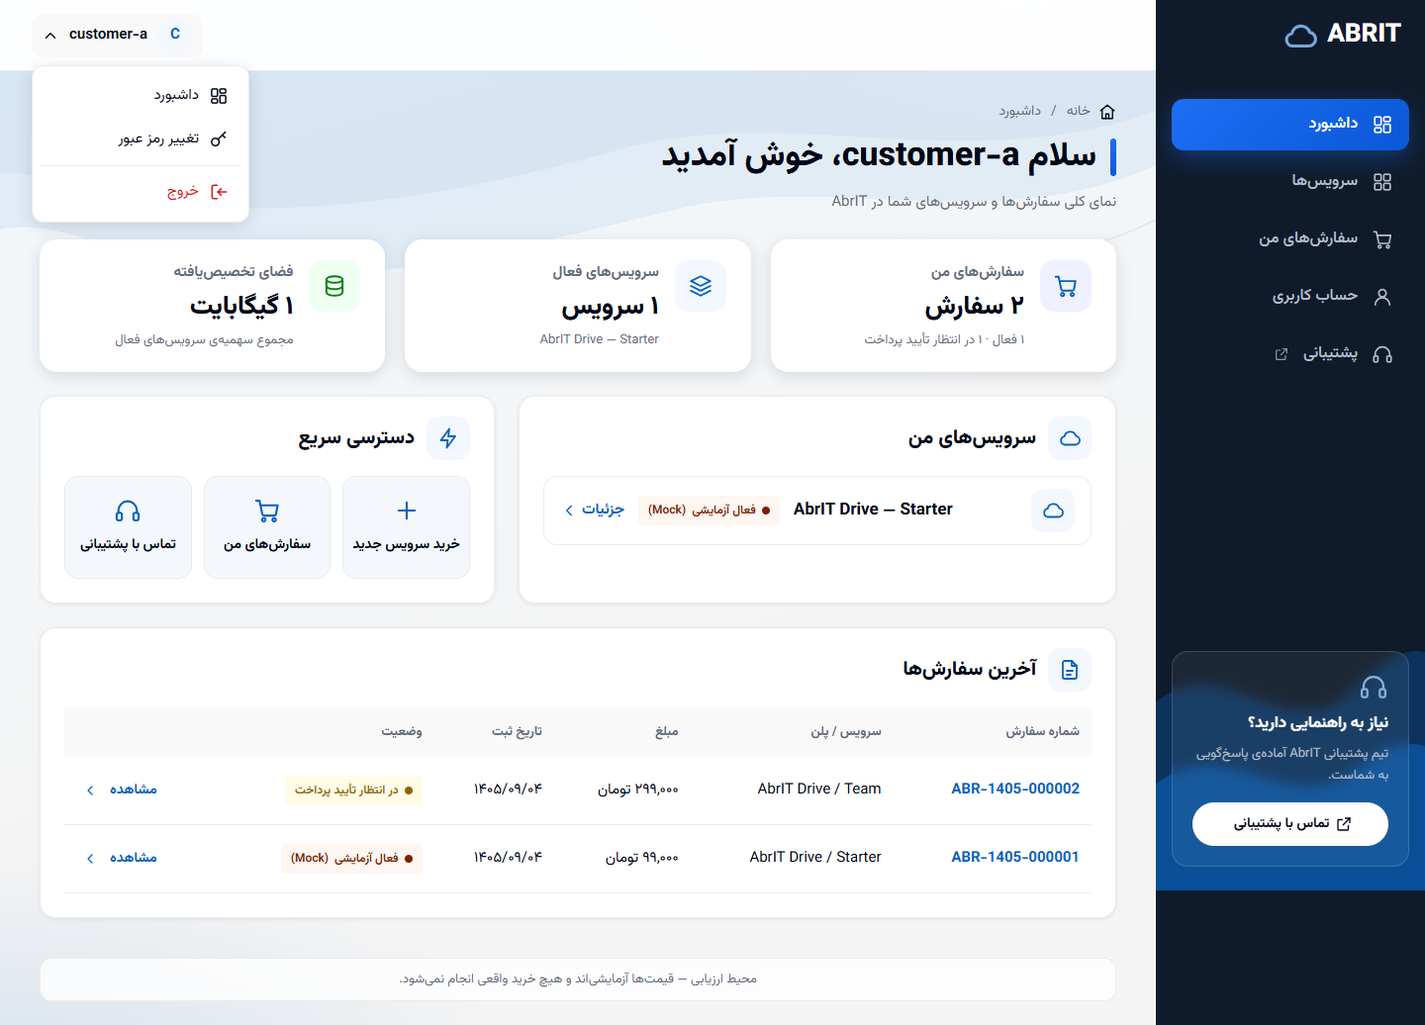
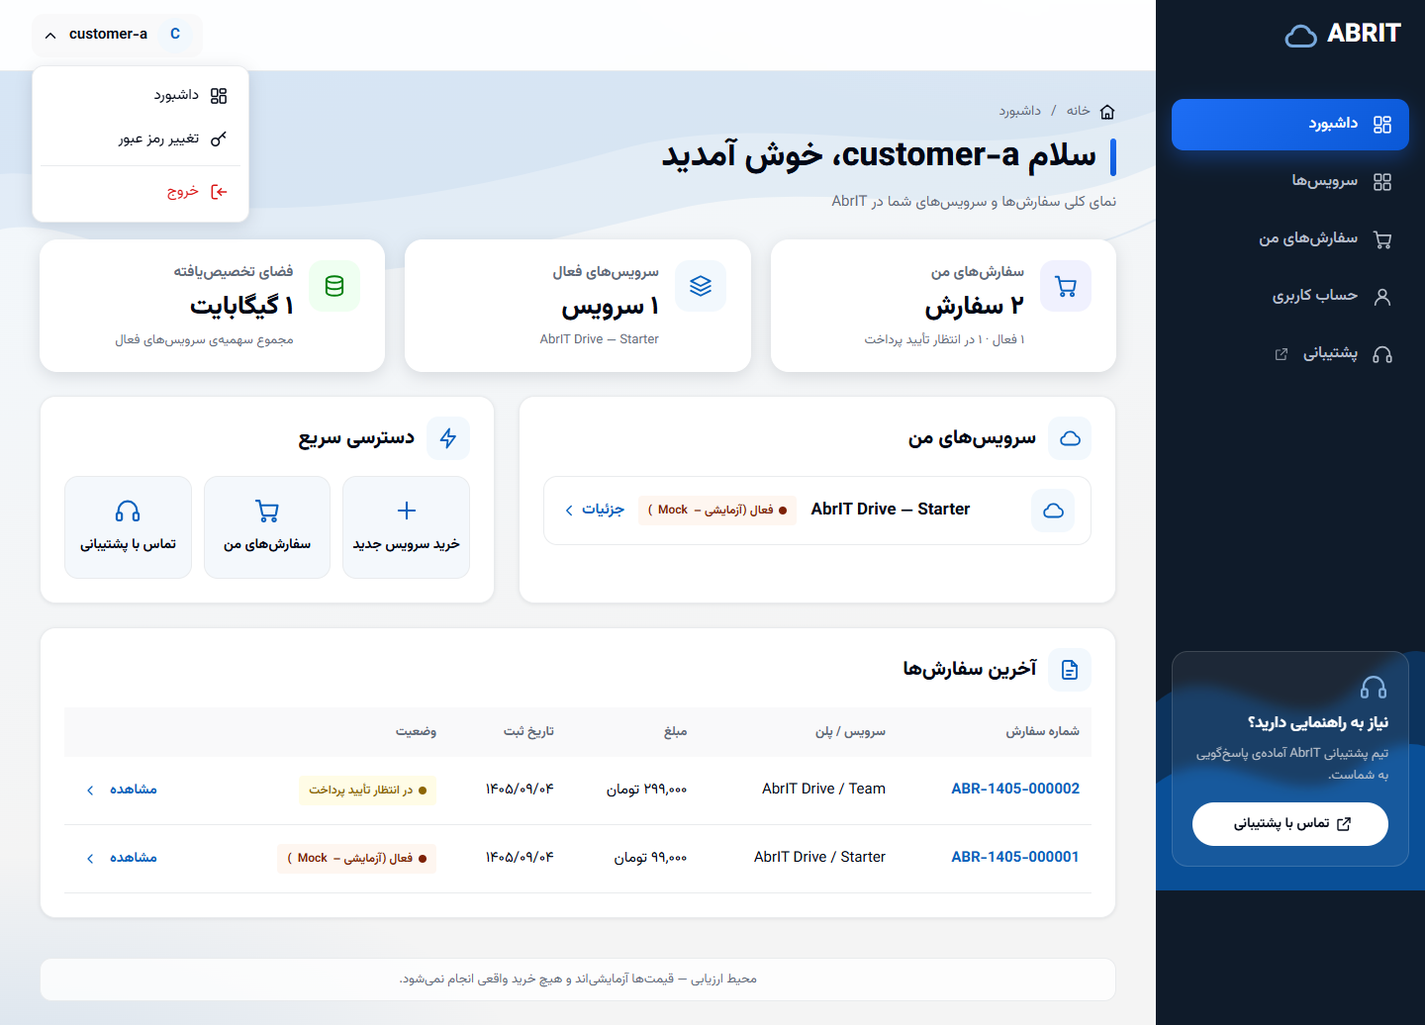
fix(ui): mock label, sidebar height on dashboard, persian decimal

diff --git a/docs/prototype/index.html b/docs/prototype/index.html
@@ -399,7 +399,7 @@ html,body{margin:0;background:#dfe3e8;font-family:var(--abr-font)}
         <tbody>
           <tr data-group="failed"><td data-label="شماره سفارش"><a class="abr-cell-link" href="#"><bdi class="ltr">ABR-1405-000125</bdi></a></td><td data-label="سرویس / پلن"><span>AbrIT Drive — <bdi>Starter</bdi></span></td><td data-label="مبلغ">۹۹٬۰۰۰ تومان</td><td data-label="تاریخ ثبت"><time datetime="2026-11-23">۱۴۰۵/۰۹/۰۲</time></td><td data-label="وضعیت"><span><span class="abr-badge" data-status="Failed">خطا در فعالسازی</span><span class="abr-hint">پشتیبانی در حال بررسی است؛ نیازی به ثبت دوباره نیست.</span></span></td><td class="actions"><a class="abr-btn abr-btn--link" href="#" aria-label="مشاهده جزئیات سفارش ABR-1405-000125">مشاهده جزئیات</a></td></tr>
           <tr data-group="pending"><td data-label="شماره سفارش"><a class="abr-cell-link" href="#"><bdi class="ltr">ABR-1405-000124</bdi></a></td><td data-label="سرویس / پلن"><span>AbrIT Drive — <bdi>Team</bdi></span></td><td data-label="مبلغ">۲۹۹٬۰۰۰ تومان</td><td data-label="تاریخ ثبت"><time datetime="2026-11-23">۱۴۰۵/۰۹/۰۲</time></td><td data-label="وضعیت"><span class="abr-badge" data-status="PendingPayment">در انتظار تأیید پرداخت</span></td><td class="actions"><button class="abr-btn abr-btn--danger" type="button" data-confirm="ABR-1405-000124" aria-haspopup="dialog">لغو سفارش</button></td></tr>
-          <tr data-group="active"><td data-label="شماره سفارش"><a class="abr-cell-link" href="#"><bdi class="ltr">ABR-1405-000123</bdi></a></td><td data-label="سرویس / پلن"><span>AbrIT Drive — <bdi>Starter</bdi></span></td><td data-label="مبلغ">۹۹٬۰۰۰ تومان</td><td data-label="تاریخ ثبت"><time datetime="2026-11-22">۱۴۰۵/۰۹/۰۱</time></td><td data-label="وضعیت"><span class="abr-badge" data-status="ActiveMock">فعال آزمایشی <bdi>(Mock)</bdi></span></td><td class="actions"><a class="abr-btn abr-btn--link" href="#" aria-label="مشاهده سرویس سفارش ABR-1405-000123">مشاهده سرویس</a></td></tr>
+          <tr data-group="active"><td data-label="شماره سفارش"><a class="abr-cell-link" href="#"><bdi class="ltr">ABR-1405-000123</bdi></a></td><td data-label="سرویس / پلن"><span>AbrIT Drive — <bdi>Starter</bdi></span></td><td data-label="مبلغ">۹۹٬۰۰۰ تومان</td><td data-label="تاریخ ثبت"><time datetime="2026-11-22">۱۴۰۵/۰۹/۰۱</time></td><td data-label="وضعیت"><span class="abr-badge" data-status="ActiveMock">فعال (آزمایشی – <bdi>Mock</bdi>)</span></td><td class="actions"><a class="abr-btn abr-btn--link" href="#" aria-label="مشاهده سرویس سفارش ABR-1405-000123">مشاهده سرویس</a></td></tr>
         </tbody>
       </table>
       <div class="abr-empty" id="empty-d4" hidden><strong>سفارشی با این وضعیت ندارید.</strong><button class="abr-btn abr-btn--link" type="button" data-filter-reset>نمایش همهی سفارشها</button></div>
@@ -422,7 +422,7 @@ html,body{margin:0;background:#dfe3e8;font-family:var(--abr-font)}
   <header class="abr-nav"><div class="abr-nav__right"><a class="abr-nav__brand" href="#">ABRIT <small>پنل مشتریان</small></a><nav class="abr-nav__links" id="nav-d5" aria-label="منوی اصلی"><a href="#">سرویسها</a><a href="#" aria-current="page">داشبورد من</a><a href="#">پشتیبانی</a></nav></div><div class="abr-nav__user"><span class="abr-avatar" aria-hidden="true">ا</span><span>مشتری الف</span><form class="abr-nav__logout" method="post" action="/Users/LogOff"><button type="submit" class="abr-nav__linkbtn">خروج</button></form><button class="abr-nav__burger" type="button" aria-label="منو" aria-expanded="false" aria-controls="nav-d5">☰</button></div></header>
   <main class="abr-main" id="main-d5" tabindex="-1">
     <div class="abr-head"><div class="abr-crumb">خانه <span>/</span> داشبورد من <span>/</span> <bdi class="ltr">ABR-1405-000123</bdi></div>
-      <div class="abr-head__title"><h1 class="abr-h1">سفارش <bdi class="ltr">ABR-1405-000123</bdi></h1><span class="abr-badge" data-status="ActiveMock">فعال آزمایشی <bdi>(Mock)</bdi></span></div><p class="abr-sub">AbrIT Drive — Starter</p></div>
+      <div class="abr-head__title"><h1 class="abr-h1">سفارش <bdi class="ltr">ABR-1405-000123</bdi></h1><span class="abr-badge" data-status="ActiveMock">فعال (آزمایشی – <bdi>Mock</bdi>)</span></div><p class="abr-sub">AbrIT Drive — Starter</p></div>
     <div class="abr-alert abr-alert--mock" role="note"><span class="abr-alert__icon"></span><div><strong>فعالسازی آزمایشی (Mock)</strong><p>این حساب در حالت Mock ساخته شده و به سرور واقعی Nextcloud متصل نیست. اطلاعات زیر فقط برای نمایش جریان کار است.</p></div></div>
     <div class="abr-cols">
       <div style="display:flex;flex-direction:column;gap:24px">
@@ -443,7 +443,7 @@ html,body{margin:0;background:#dfe3e8;font-family:var(--abr-font)}
       </div>
       <section class="abr-container"><div class="abr-container__head"><h2 class="abr-container__title">تاریخچهی وضعیت</h2></div>
         <ol class="abr-timeline">
-          <li><span class="abr-badge" data-status="ActiveMock">فعال آزمایشی <bdi>(Mock)</bdi></span><small>۱۴۰۵/۰۹/۰۱ — ۱۴:۰۶</small>حساب و سهمیه ثبت شد (Mock)</li>
+          <li><span class="abr-badge" data-status="ActiveMock">فعال (آزمایشی – <bdi>Mock</bdi>)</span><small>۱۴۰۵/۰۹/۰۱ — ۱۴:۰۶</small>حساب و سهمیه ثبت شد (Mock)</li>
           <li><span class="abr-badge" data-status="Provisioning">در حال فعالسازی</span><small>۱۴۰۵/۰۹/۰۱ — ۱۴:۰۶</small>شروع ساخت حساب</li>
           <li><span class="abr-badge" data-status="Paid">پرداختشده</span><small>۱۴۰۵/۰۹/۰۱ — ۱۴:۰۵</small>تأیید پرداخت توسط مدیر</li>
           <li><span class="abr-badge" data-status="PendingPayment">در انتظار تأیید پرداخت</span><small>۱۴۰۵/۰۹/۰۱ — ۱۳:۵۰</small>ثبت سفارش</li>
@@ -552,7 +552,7 @@ html,body{margin:0;background:#dfe3e8;font-family:var(--abr-font)}
           <tr><td data-label="شماره سفارش"><bdi class="ltr">ABR-1405-000126</bdi></td><td data-label="مشتری"><bdi class="ltr">customer-b@example.test</bdi></td><td data-label="پلن"><span>Drive — Starter</span></td><td data-label="مبلغ">۹۹٬۰۰۰ تومان</td><td data-label="وضعیت"><span class="abr-badge" data-status="PendingPayment">در انتظار تأیید پرداخت</span></td><td data-label="تلاشها">—</td><td class="actions"><button class="abr-btn abr-btn--primary" type="button">تأیید پرداخت</button><button class="abr-btn abr-btn--link" type="button">لغو</button></td></tr>
           <tr><td data-label="شماره سفارش"><bdi class="ltr">ABR-1405-000125</bdi></td><td data-label="مشتری"><bdi class="ltr">customer-a@example.test</bdi></td><td data-label="پلن"><span>Drive — Starter</span></td><td data-label="مبلغ">۹۹٬۰۰۰ تومان</td><td data-label="وضعیت"><span class="abr-badge" data-status="Failed">خطا در فعالسازی</span></td><td data-label="تلاشها">۱ / ۵</td><td class="actions"><button class="abr-btn abr-btn--normal" type="button">تلاش مجدد</button></td></tr>
           <tr><td data-label="شماره سفارش"><bdi class="ltr">ABR-1405-000124</bdi></td><td data-label="مشتری"><bdi class="ltr">customer-a@example.test</bdi></td><td data-label="پلن"><span>Drive — Team</span></td><td data-label="مبلغ">۲۹۹٬۰۰۰ تومان</td><td data-label="وضعیت"><span class="abr-badge" data-status="PendingPayment">در انتظار تأیید پرداخت</span></td><td data-label="تلاشها">—</td><td class="actions"><button class="abr-btn abr-btn--primary" type="button">تأیید پرداخت</button><button class="abr-btn abr-btn--link" type="button">لغو</button></td></tr>
-          <tr><td data-label="شماره سفارش"><bdi class="ltr">ABR-1405-000123</bdi></td><td data-label="مشتری"><bdi class="ltr">customer-a@example.test</bdi></td><td data-label="پلن"><span>Drive — Starter</span></td><td data-label="مبلغ">۹۹٬۰۰۰ تومان</td><td data-label="وضعیت"><span class="abr-badge" data-status="ActiveMock">فعال آزمایشی <bdi>(Mock)</bdi></span></td><td data-label="تلاشها">۱ / ۵</td><td class="actions"><a class="abr-btn abr-btn--link" href="#">جزئیات</a></td></tr>
+          <tr><td data-label="شماره سفارش"><bdi class="ltr">ABR-1405-000123</bdi></td><td data-label="مشتری"><bdi class="ltr">customer-a@example.test</bdi></td><td data-label="پلن"><span>Drive — Starter</span></td><td data-label="مبلغ">۹۹٬۰۰۰ تومان</td><td data-label="وضعیت"><span class="abr-badge" data-status="ActiveMock">فعال (آزمایشی – <bdi>Mock</bdi>)</span></td><td data-label="تلاشها">۱ / ۵</td><td class="actions"><a class="abr-btn abr-btn--link" href="#">جزئیات</a></td></tr>
         </tbody>
       </table>
     </section>

diff --git a/design-system/preview.html b/design-system/preview.html
@@ -98,7 +98,7 @@ h2{font-size:var(--abr-fs-h2);line-height:var(--abr-lh-h2);margin:48px 0 16px;pa
   <span class="badge" style="color:var(--abr-info);background:var(--abr-info-bg)">پرداختشده</span>
   <span class="badge" style="color:var(--abr-info);background:var(--abr-info-bg)">در حال فعالسازی</span>
   <span class="badge" style="color:var(--abr-success);background:var(--abr-success-bg)">فعال</span>
-  <span class="badge" style="color:var(--abr-mock);background:var(--abr-mock-bg)">فعال آزمایشی <bdi>(Mock)</bdi></span>
+  <span class="badge" style="color:var(--abr-mock);background:var(--abr-mock-bg)">فعال (آزمایشی – <bdi>Mock</bdi>)</span>
   <span class="badge" style="color:var(--abr-error);background:var(--abr-error-bg)">خطا در فعالسازی</span>
   <span class="badge" style="color:var(--abr-neutral);background:var(--abr-neutral-bg)">لغوشده</span>
 </div>

diff --git a/src/AbrIT.Panel.Module/Display/Labels.cs b/src/AbrIT.Panel.Module/Display/Labels.cs
@@ -23,10 +23,13 @@ public static class Labels
         _ => status.ToString(),
     };
 
+    /// <summary>Badge text for Active in Mock mode: «فعال (آزمایشی – Mock)» (DESIGN_PROMPTS); "Mock" is bidi-isolated.</summary>
+    public const string ActiveMockHtml = "فعال (آزمایشی – <bdi>Mock</bdi>)";
+
     /// <summary>In Mock mode Active is never shown as a real active service (spec §7).</summary>
     public static IHtmlContent StatusHtml(OrderStatus status, ProvisionerMode? mode) =>
         status == OrderStatus.Active && mode == ProvisionerMode.Mock
-            ? new HtmlString("فعال آزمایشی <bdi>(Mock)</bdi>")
+            ? new HtmlString(ActiveMockHtml)
             : new HtmlString(WebUtility.HtmlEncode(Status(status)));
 
     /// <summary>Badge key for <c>.abr-badge[data-status]</c>: <c>ActiveMock</c> keeps Mock activations visually apart.</summary>
@@ -62,7 +65,7 @@ public static class Labels
 
     private static string QuotaGb(long megabytes) =>
         megabytes > 1024
-            ? ToFa((megabytes / 1024d).ToString("0.#", CultureInfo.InvariantCulture)).Replace(".", "٫", StringComparison.Ordinal) + " گیگابایت"
+            ? Decimal(megabytes / 1024d) + " گیگابایت"
             : $"{Digits(megabytes)} مگابایت";
 
     /// <summary>Service name for an order line; the plan snapshot only carries the plan (all plans are Drive today).</summary>
@@ -95,6 +98,13 @@ public static class Labels
 
     /// <summary>Persian digits (۰–۹) for UI copy; .NET formatting never substitutes native digits.</summary>
     public static string Digits(long value) => ToFa(value.ToString(CultureInfo.InvariantCulture));
+
+    /// <summary>Persian decimal: Persian digits and «٫» (U+066B ARABIC DECIMAL SEPARATOR), e.g. 1.5 → «۱٫۵».</summary>
+    public static string Decimal(double value, int maxFractionDigits = 1) =>
+        ToFa(value.ToString("0." + new string('#', maxFractionDigits), CultureInfo.InvariantCulture))
+            .Replace(".", DecimalSeparator, StringComparison.Ordinal);
+
+    public const string DecimalSeparator = "٫";
 
     public static string ToFa(string latin) =>
         string.Concat(latin.Select(c => c is >= '0' and <= '9' ? (char)('۰' + (c - '0')) : c));

diff --git a/tests/AbrIT.Panel.Web.Tests/AcceptanceTests.cs b/tests/AbrIT.Panel.Web.Tests/AcceptanceTests.cs
@@ -1,3 +1,4 @@
+using AbrIT.Panel.Module.Display;
 using System.Net;
 using System.Text;
 using System.Text.RegularExpressions;
@@ -144,8 +145,7 @@ public sealed partial class AcceptanceTests(SharedPanelHost shared)
         Assert.Equal(OneGiB, account.QuotaBytes);
 
         var page = await customerA.GetAsync($"/dashboard/orders/{orderId}");
-        Assert.Contains("فعال آزمایشی", page.Text);
-        Assert.Contains("(Mock)", page.Text);
+        Assert.Contains(Labels.ActiveMockHtml, page.Text);
         Assert.Contains(request.ExternalUserId, page.Text);
     }
 
@@ -218,7 +218,7 @@ public sealed partial class AcceptanceTests(SharedPanelHost shared)
             var request = await Host.GetProvisioningRequestAsync(orderId);
             Assert.Equal(ProvisioningStatus.Succeeded, request!.Status);
             Assert.Equal(2, request.Attempts);
-            Assert.Contains("فعال آزمایشی", (await customerA.GetAsync($"/dashboard/orders/{orderId}")).Text);
+            Assert.Contains(Labels.ActiveMockHtml, (await customerA.GetAsync($"/dashboard/orders/{orderId}")).Text);
         }
         finally
         {

diff --git a/tests/AbrIT.Panel.Web.Tests/LabelsTests.cs b/tests/AbrIT.Panel.Web.Tests/LabelsTests.cs
@@ -1,0 +1,22 @@
+using AbrIT.Panel.Module.Display;
+
+namespace AbrIT.Panel.Web.Tests;
+
+public sealed class LabelsTests
+{
+    [Fact]
+    public void Decimal_UsesPersianDigitsAndArabicDecimalSeparator()
+    {
+        Assert.Equal("۱٫۵", Labels.Decimal(1.5));
+        Assert.Equal("۱٫۵ گیگابایت", Labels.Quota(1536));
+        Assert.Equal("۱ گیگابایت", Labels.Quota(1024));
+        Assert.Equal("۵۰۰ مگابایت", Labels.Quota(500));
+    }
+
+    [Fact]
+    public void Price_UsesPersianDigitsAndCommaGrouping() => Assert.Equal("۲۹۹,۰۰۰ تومان", Labels.Price(299_000));
+
+    [Fact]
+    public void ActiveMock_IsTheAgreedLabel() =>
+        Assert.Equal("فعال (آزمایشی – <bdi>Mock</bdi>)", Labels.StatusHtml(Domain.Orders.OrderStatus.Active, Domain.Provisioning.ProvisionerMode.Mock).ToString());
+}

diff --git a/tests/AbrIT.Panel.Web.Tests/RestartTests.cs b/tests/AbrIT.Panel.Web.Tests/RestartTests.cs
@@ -1,3 +1,4 @@
+using AbrIT.Panel.Module.Display;
 using System.Net;
 using AbrIT.Panel.Domain.Orders;
 using AbrIT.Panel.Domain.Provisioning;
@@ -47,7 +48,7 @@ public sealed class RestartTests
             using var customerAAgain = await second.LoginAsync(PanelHost.CustomerA, PanelHost.CustomerAPassword);
             var page = await customerAAgain.GetAsync($"/dashboard/orders/{activeOrderId}", followRedirects: false);
             Assert.Equal(HttpStatusCode.OK, page.Status);
-            Assert.Contains("فعال آزمایشی", page.Text);
+            Assert.Contains(Labels.ActiveMockHtml, page.Text);
             var dashboard = await customerAAgain.GetAsync("/dashboard");
             Assert.Contains(activeOrderNumber, dashboard.Text);
             Assert.Contains((await second.GetOrderAsync(pendingOrderId))!.OrderNumber, dashboard.Text);

diff --git a/docs/DECISIONS.md b/docs/DECISIONS.md
@@ -51,5 +51,5 @@ Format: `D-xx | decision | why | status`. Add new entries; never silently change
 | D-18 | `INextcloudProvisioner` gained `AddUserToGroupAsync`, `RemoveUserFromGroupAsync`, `DisableUserAsync`; provisioning now adds the Team owner to the group explicitly (create-with-groups is skipped by Nextcloud when the account already existed). `TeamWorkspace` is a YesSql document (one per order, `TeamWorkspaceIndex(OrderId)`, migration v3) changed only under the per-order lock, with the same commit-on-save / fresh-read rules as D-12. | Same three idempotency layers as provisioning: lock, one document per order, deterministic ids + create-if-missing. |
 | D-19 | Integration tests (`tests/AbrIT.Panel.Web.Tests`) run the real `Program` via `WebApplicationFactory` in **Production** (precompiled views, as in Docker) on a temp `ORCHARD_APP_DATA`. Orchard reads that path from a process-wide environment variable, so the integration collection runs **serially** and AC-01..AC-08 share one set-up host (each test creates its own orders/users); AC-09 starts two hosts on its own App_Data. E-mail is captured by a test-only Orchard `IStartup` (order `int.MaxValue`) replacing `IEmailService`. Tenant services are only read to assert, every action goes through HTTP forms with antiforgery tokens. Without an SMTP host the app falls back to pickup-directory delivery into `App_Data/mail` (recipe sets `EmailSettings.DefaultProviderName = DefaultSMTP`). `PreserveCompilationContext` is on so Orchard's Development-mode Razor runtime compilation uses the project's C# version (it fell back to C# 8 and the order/admin views returned 500 under `dotnet run`). | Spec asks for runnable proof of every AC; one shared host keeps the suite at ~20 s. |
 | D-20 | Front-end theme = `AbrIT.Theme` (no Bootstrap, no CDN). `design-system/tokens.css` + the Vazirmatn font stay the single source: they are **linked** into the theme as embedded module assets (`/AbrIT.Theme/css/tokens.css`, `/AbrIT.Theme/css/fonts/*`), not copied. `theme.css` = prototype THEME block (`@container viewport` → `@media`) + shell/auth/component layer. Existing sites switch via module data migration `ThemeMigrations` (runs `Migrations/abrit-theme.recipe.json`); new sites via the setup recipe. Reusable components are Orchard **shapes in the module** (`AbrPageHeader`, `AbrAlert`, `AbrStepper`, `AbrTimeline`, `AbrStatusBadge`) + C# `Icons.Svg(...)`, so the admin theme can use them later; the theme references the module for those types. Sign-in pages override only the Users shape templates and the controller views that carry Bootstrap markup; labels are always visible (refs 01/02 show placeholder-only fields — not accessible). Reset page asks for «ایمیل یا نام کاربری» (ref 04 shows a pre-filled read-only email, but Orchard's reset link carries no email). | Spec §7 (use Orchard capabilities, don't modify its source); AA contrast/labels; one token source. |
-| D-21 | Persian output and messages: host sets `WebEncoderOptions` to `UnicodeRanges.All` (Razor emitted every Persian letter as `&#x...;`). `OrchardCore.Localization` is enabled with **fa-IR as the only culture** and `AbrIT.Theme/Localization/fa-IR.po` translates the Users module's validation/errors (context-less entries; no PO header entry because Orchard's parser merges it into the first message). With `en-US` also supported, an English browser's `Accept-Language` switched requests to English messages. Side effect: TheAdmin renders RTL with mostly English (untranslated) strings. Status badge text stays exactly `Labels.StatusHtml` («فعال آزمایشی (Mock)»), which the integration tests assert. | Readable source, consistent Persian UI; Persian-only panel per AGENTS §12. |
+| D-21 | Persian output and messages: host sets `WebEncoderOptions` to `UnicodeRanges.All` (Razor emitted every Persian letter as `&#x...;`). `OrchardCore.Localization` is enabled with **fa-IR as the only culture** and `AbrIT.Theme/Localization/fa-IR.po` translates the Users module's validation/errors (context-less entries; no PO header entry because Orchard's parser merges it into the first message). With `en-US` also supported, an English browser's `Accept-Language` switched requests to English messages. Side effect: TheAdmin renders RTL with mostly English (untranslated) strings. Status badge text stays exactly `Labels.StatusHtml` («فعال (آزمایشی – Mock)»), which the integration tests assert. | Readable source, consistent Persian UI; Persian-only panel per AGENTS §12. |
 | D-22 | Passwords need **at least 8 characters** (other rules stay ASP.NET Identity defaults: upper, lower, digit, symbol). Set in the module `Startup` with `PostConfigure<IdentityOptions>` because Orchard 3.0.1 exposes no site setting for password rules; it applies on every tenant start, so existing sites follow without a migration. Existing accounts keep working (rules apply on set/change only). The sign-in checklist reads the same options. | DESIGN_PROMPTS page 7 shows «حداقل ۸ کاراکتر»; checklist must never promise less than the server enforces. |

diff --git a/docs/DESIGN.md b/docs/DESIGN.md
@@ -47,7 +47,7 @@ Bootstrap 5 RTL mapping: `--bs-primary: var(--abr-primary)`, `--bs-body-bg: var(
 | TopNav `.abr-nav` | theme `Layout.cshtml` | dark bar; brand on the right; burger below 640px |
 | Footer `.abr-footer` | `Layout.cshtml` | "محیط ارزیابی" note always visible |
 | Button `.abr-btn--primary/normal/link/danger` | tag helper or plain class | one Primary per page |
-| StatusBadge `.abr-badge[data-status]` | `_StatusBadge.cshtml(OrderStatus, ProvisionerMode)` | Active + Mock → `ActiveMock` «فعال آزمایشی <bdi>(Mock)</bdi>»; `Active` only when Mode=Real succeeded |
+| StatusBadge `.abr-badge[data-status]` | `_StatusBadge.cshtml(OrderStatus, ProvisionerMode)` | Active + Mock → `ActiveMock` «فعال (آزمایشی – <bdi>Mock</bdi>)»; `Active` only when Mode=Real succeeded |
 | Container `.abr-container` | `_Container.cshtml` (title, desc, actions slot) | |
 | KeyValue `.abr-kv-grid` / `.abr-kv` | `_KeyValueGrid.cshtml` | 3 cols desktop, 2 mobile |
 | Alert `.abr-alert--info/error/mock/success` | `_Alert.cshtml` | error uses `role="alert"` |

diff --git a/AGENTS.md b/AGENTS.md
@@ -130,7 +130,7 @@ PendingPayment ──approve(admin)──▶ Paid ──start──▶ Provision
 
 Persian labels: PendingPayment «در انتظار تأیید پرداخت», Paid «پرداختشده», Provisioning «در حال فعالسازی»,
 Active «فعال», Failed «خطا در فعالسازی», Cancelled «لغوشده». In Mock mode Active is shown as
-«فعال آزمایشی (Mock)» (wrap "(Mock)" in <bdi>) — **never** as a real active service (spec §7).
+«فعال (آزمایشی – Mock)» (wrap "Mock" in <bdi>) — **never** as a real active service (spec §7).
 
 ## 5. Services (Domain)
 
